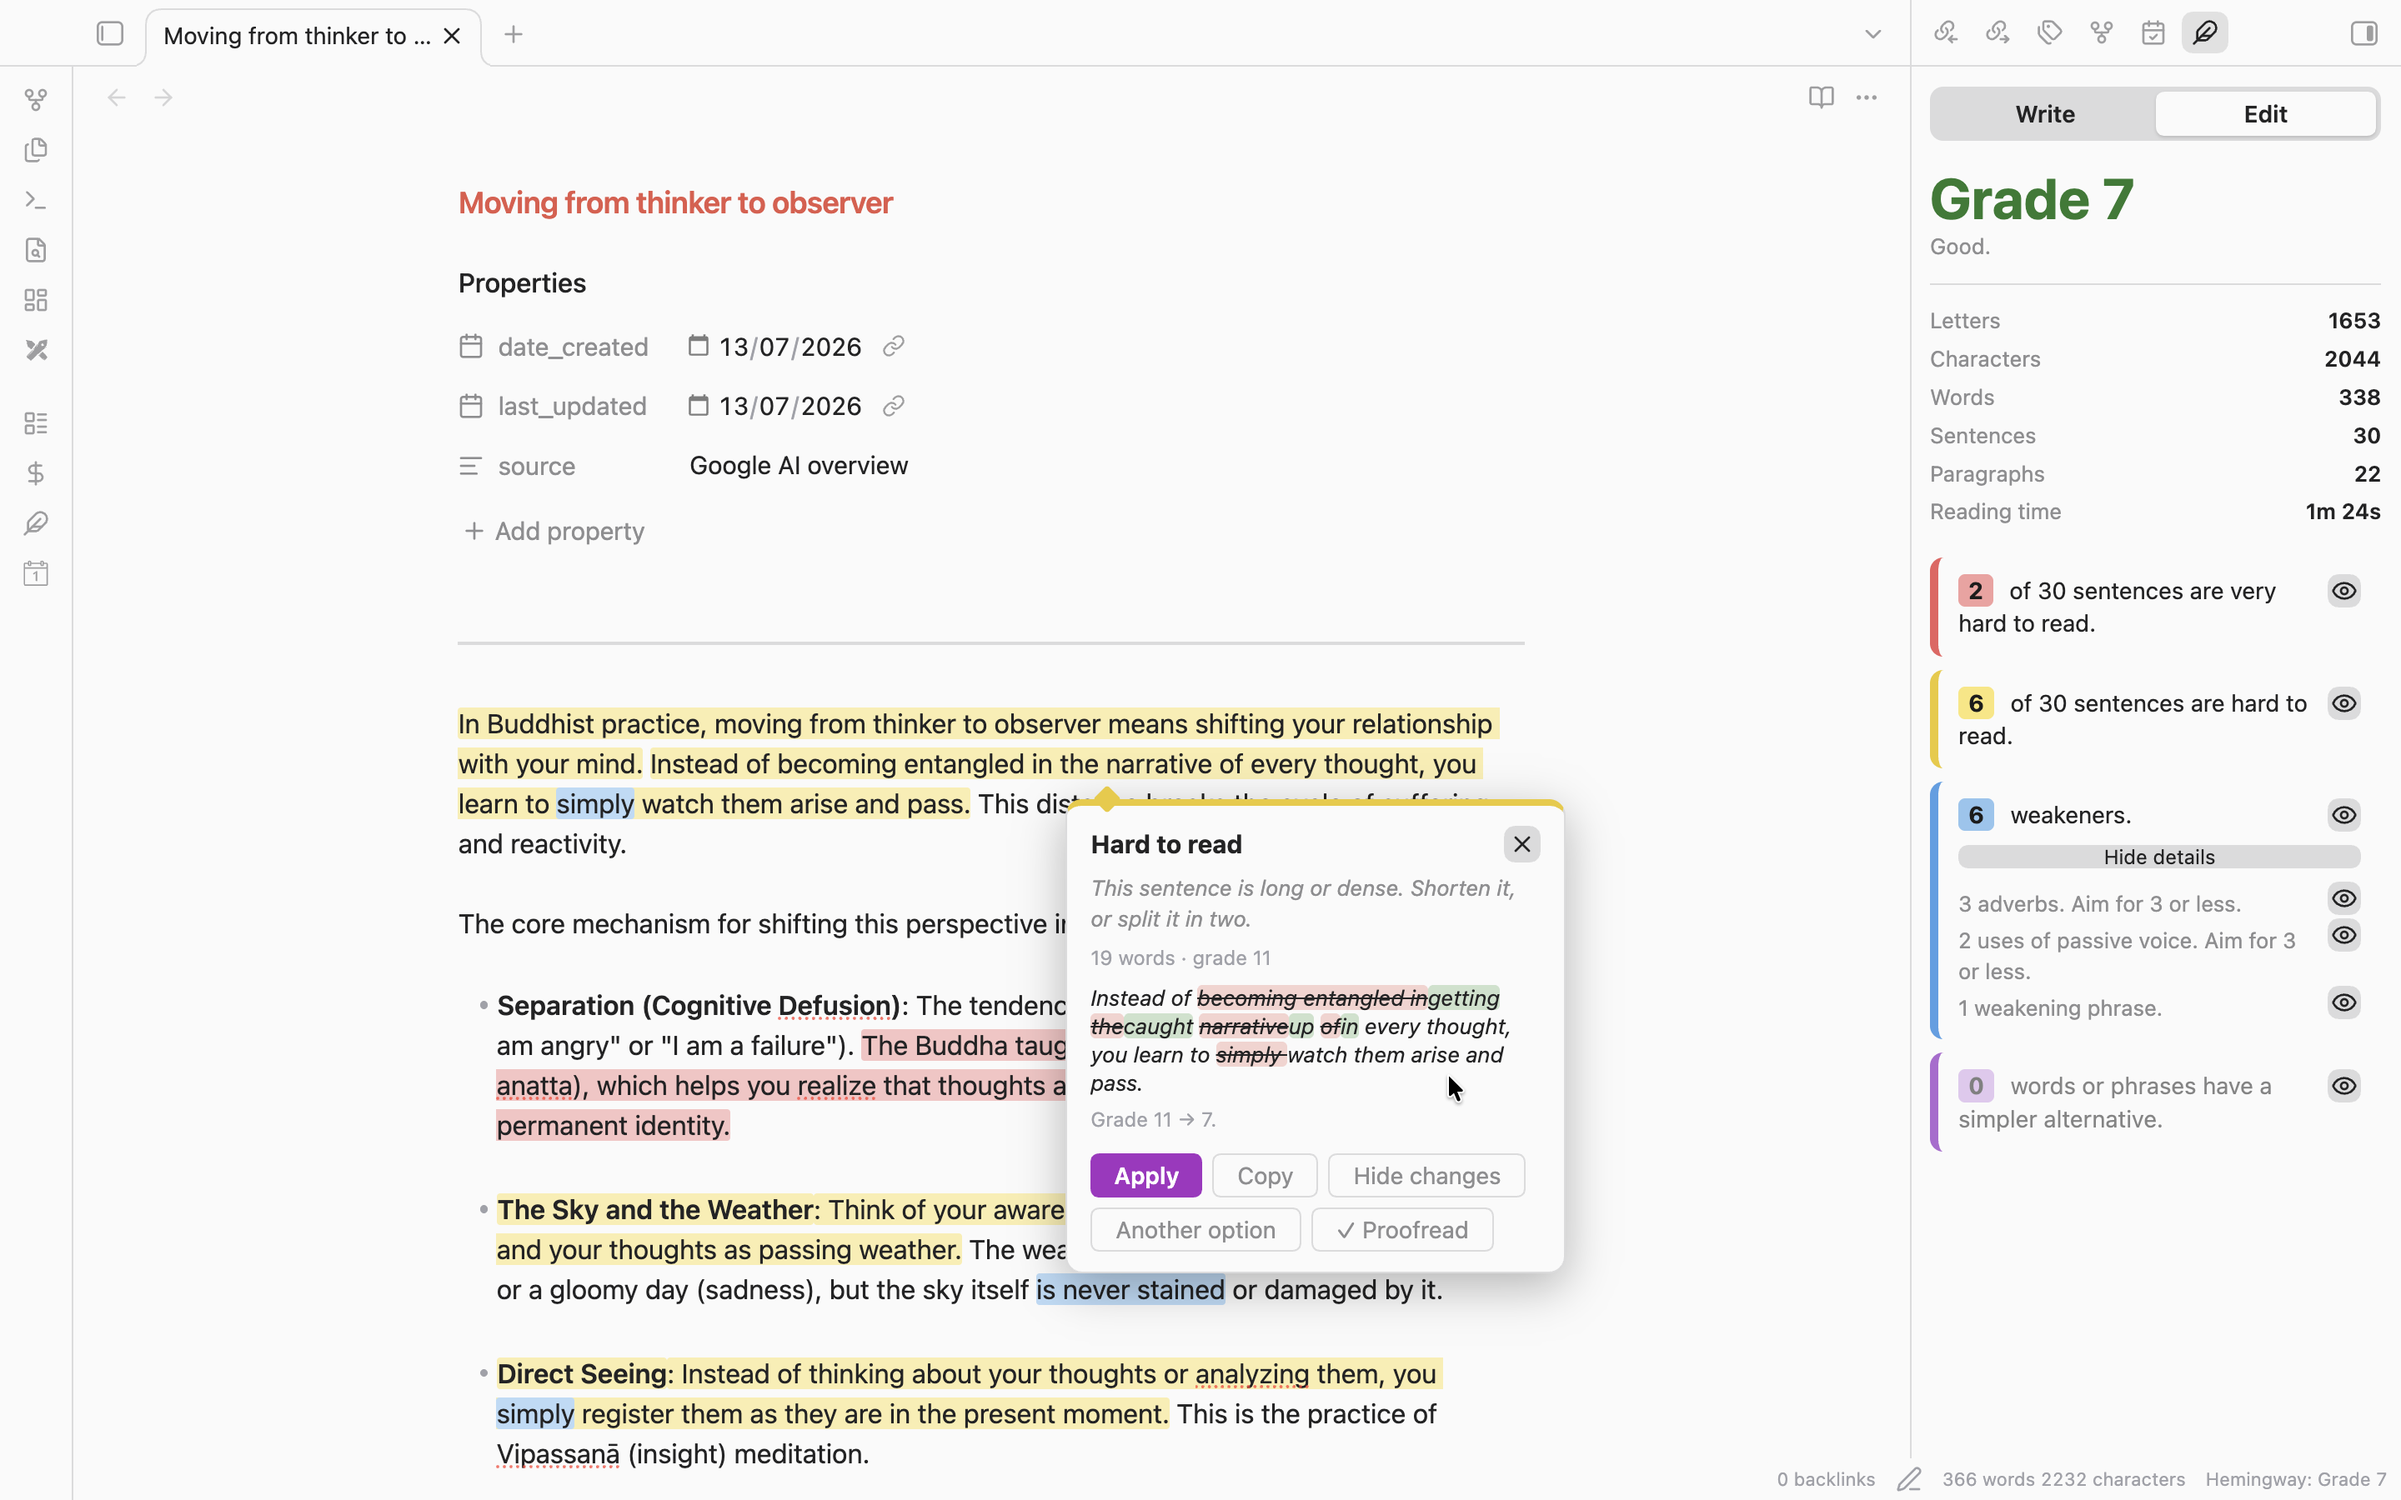
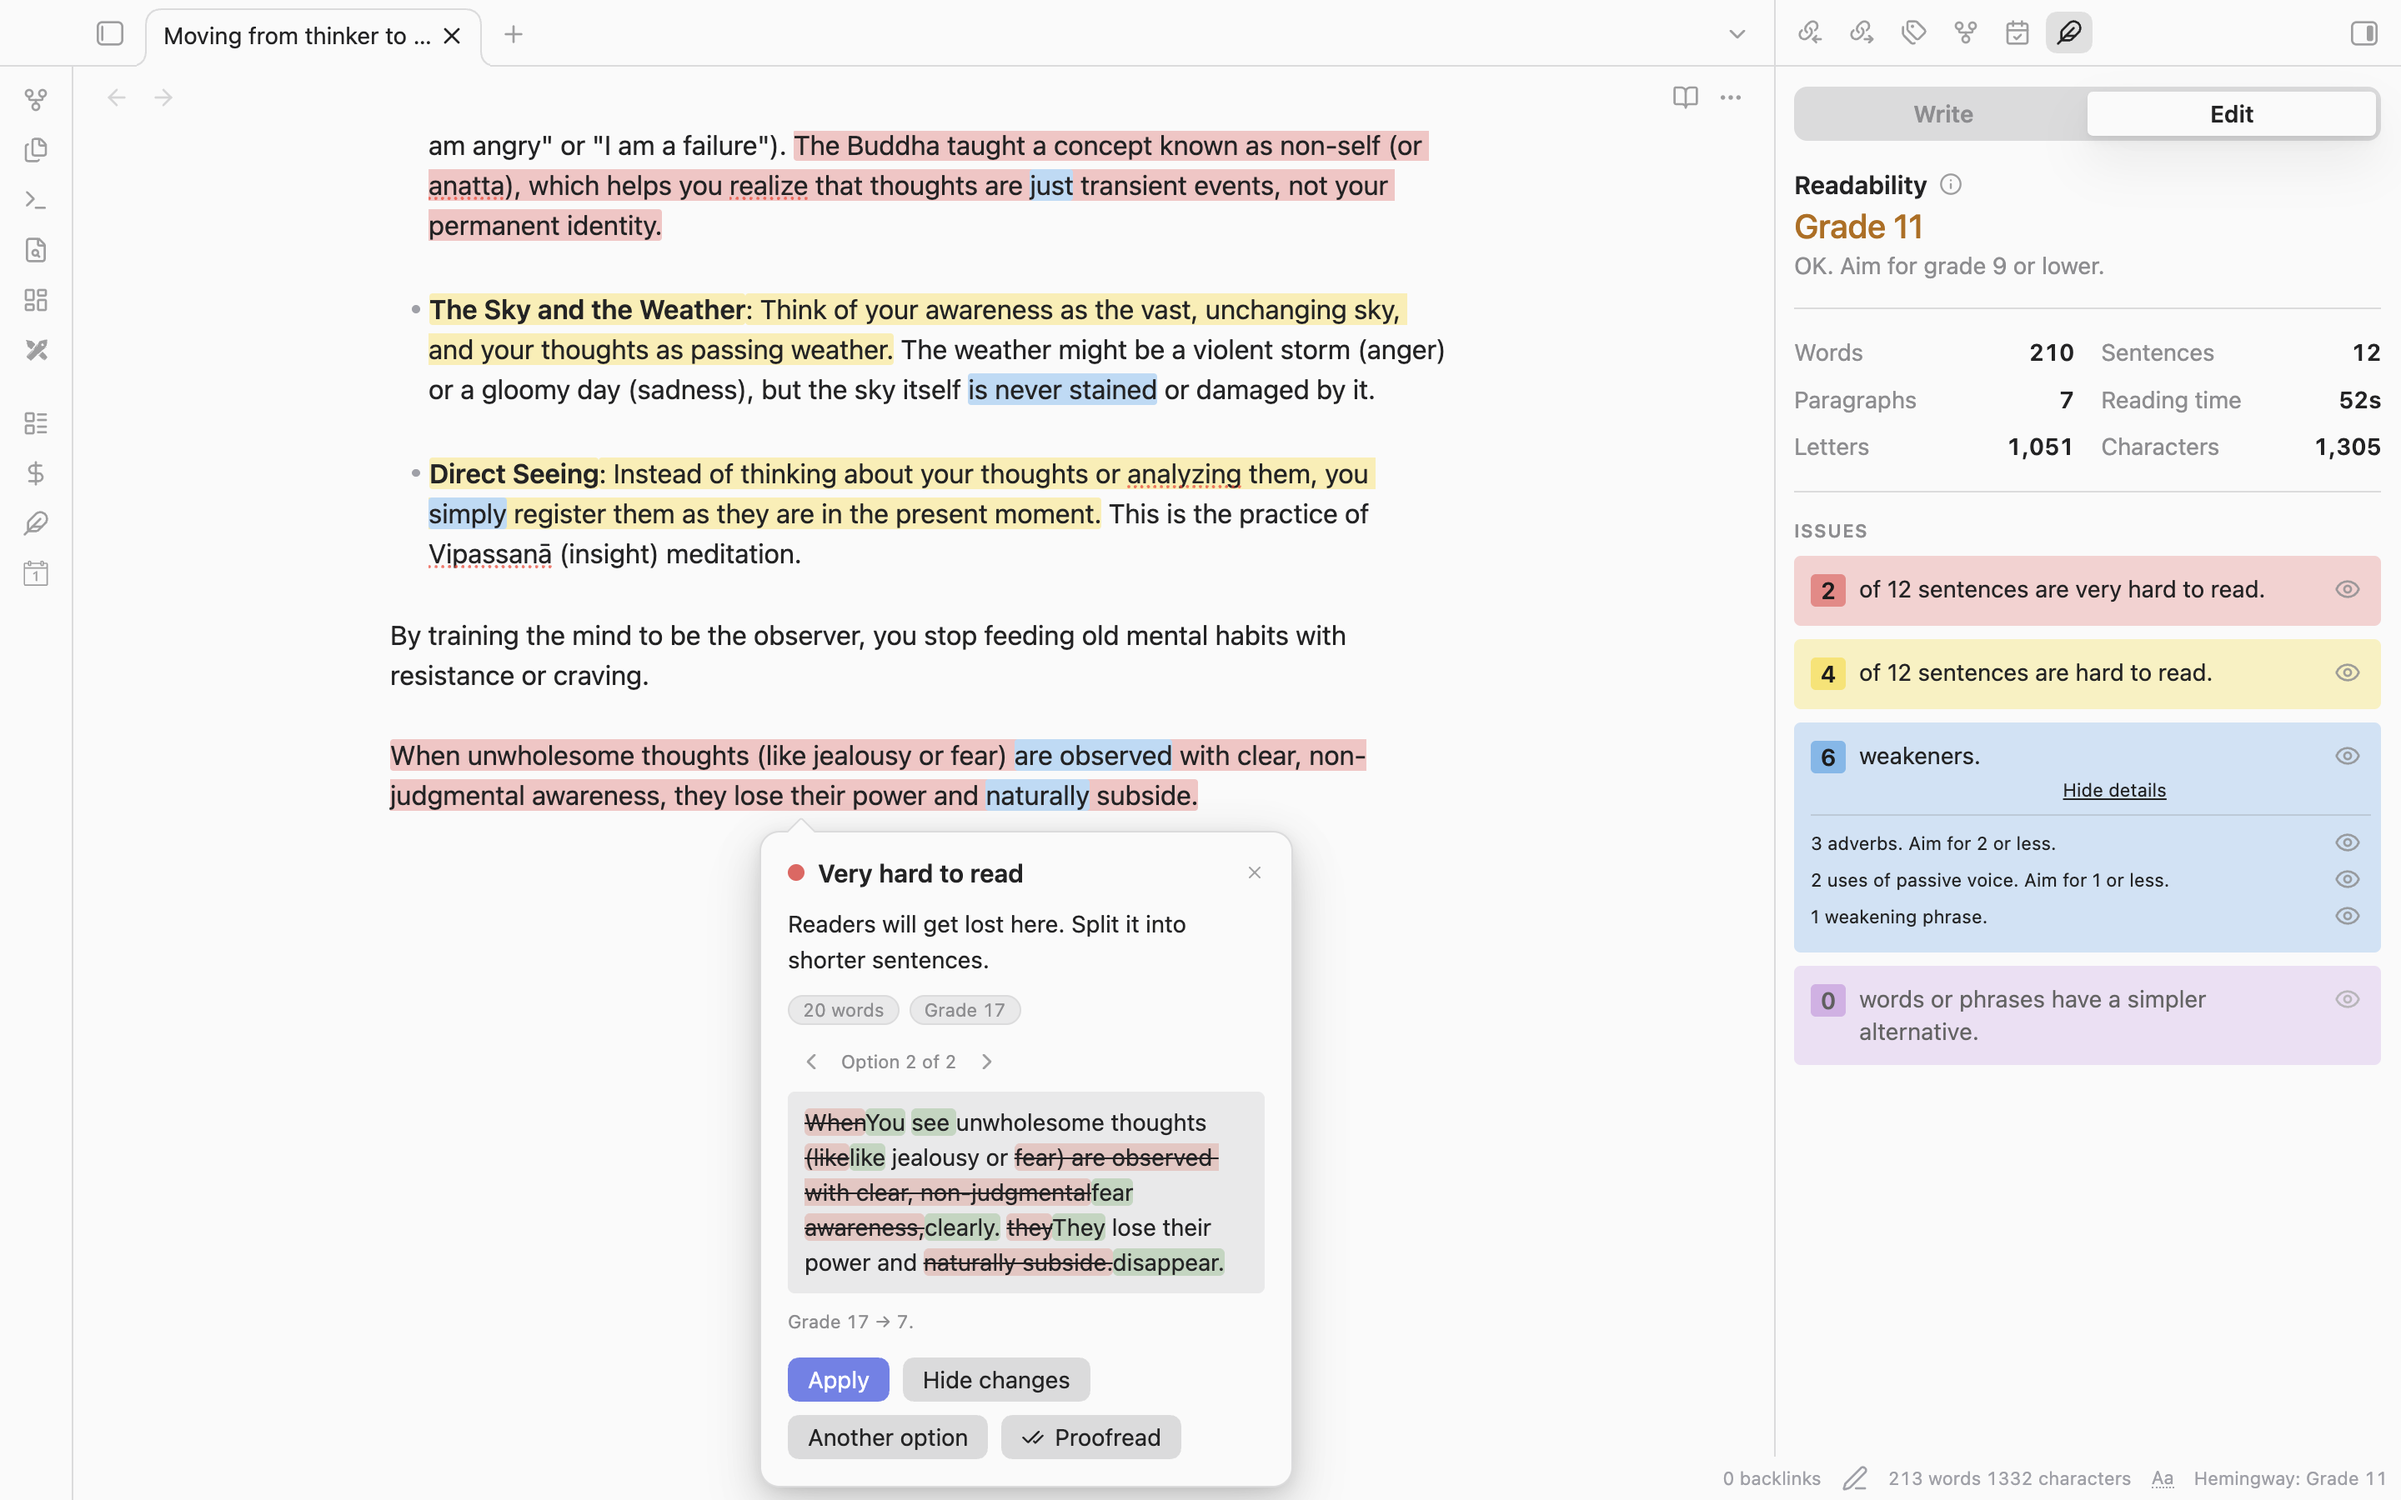
docs: refresh screenshots and add command palette image to README

diff --git a/README.md b/README.md
@@ -73,7 +73,9 @@ Add `dhruvir-zala/hemingway-for-obsidian` in the [BRAT](https://github.com/TfTHa
 | Rewrite selection with AI | Rewrites the selected text locally with AI |
 | Proofread with AI (selection or whole note) | Suggests selectable proofreading fixes for the selection, or the whole note if nothing is selected |
 
-Give them hotkeys in Settings → Hotkeys. I'd start with the first one.
+Give them hotkeys in Settings → Hotkeys. I'd start with the first one. All of them also appear in the command palette (search "Hemingway").
+
+![Hemingway commands in Obsidian's command palette: Open panel, Toggle focus mode, Rewrite selection with AI, Toggle highlights and Proofread with AI](docs/images/Hotkeys.png)
 
 ## Settings
 
